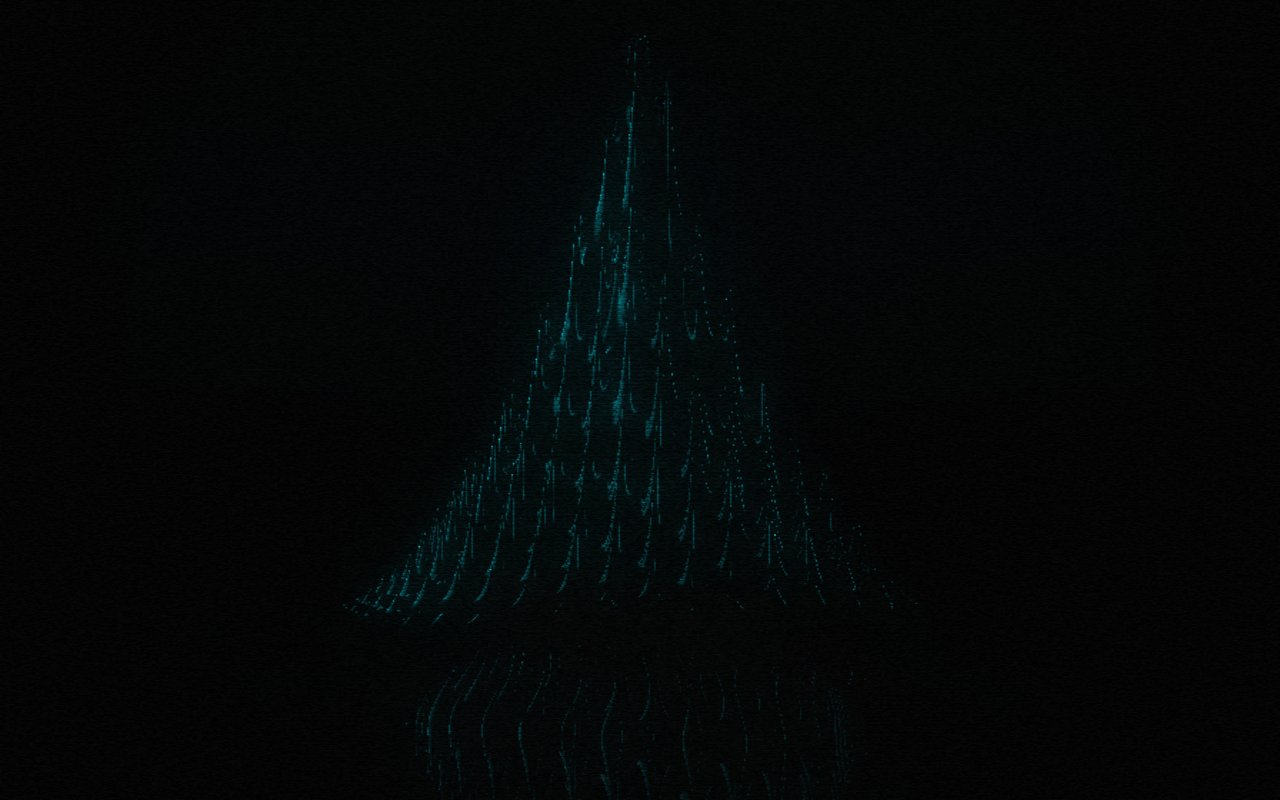
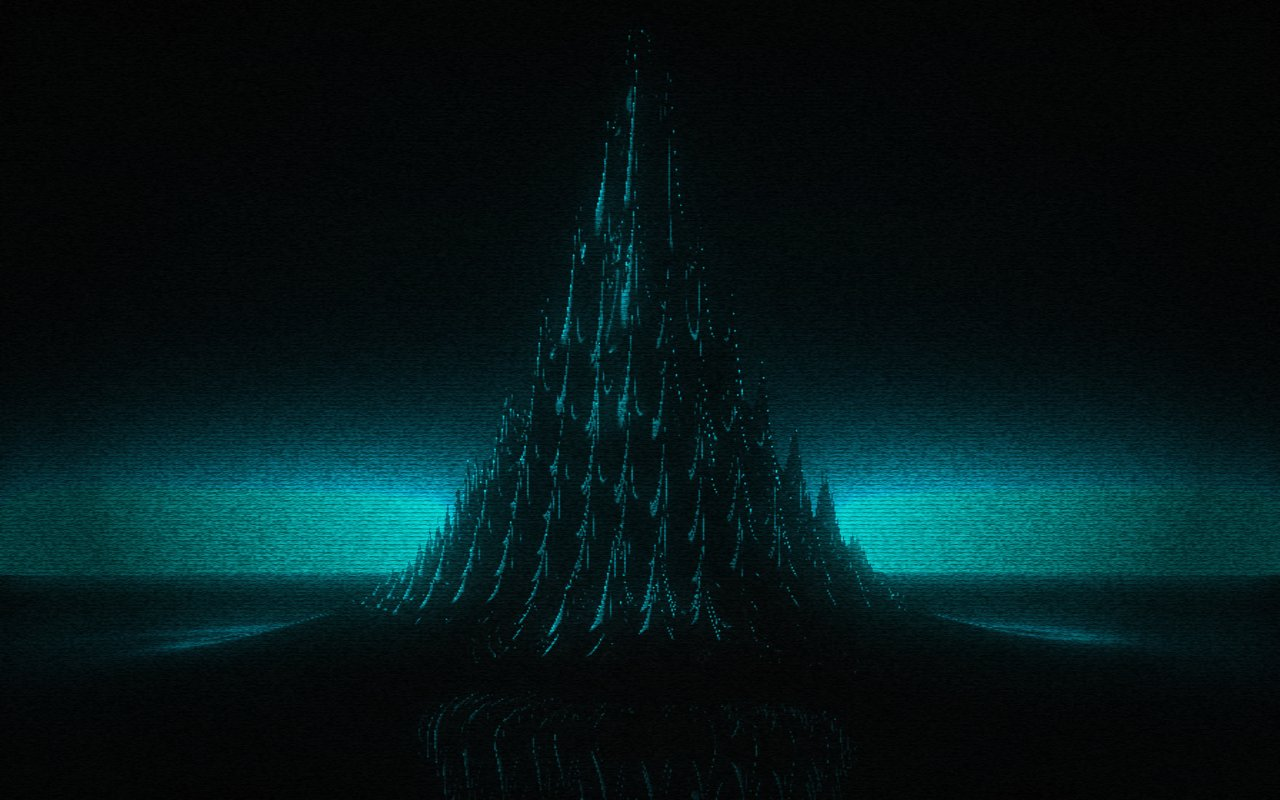
Campo: nueva luz (horizonte que brilla, siluetas, más exposición, destellos con los golpes) y miniatura
Claude-Session: https://claude.ai/code/session_01PHyPu7RkDzX2ru9pxXtJdV

Changed region(s): [[0.0, 0.125, 1.0, 0.8438]]

diff --git a/lab-30-campo/index.html b/lab-30-campo/index.html
@@ -447,7 +447,7 @@ canvas{width:100vw;height:100vh;display:block}
   // pasada 1: el campo magnético (invisible) en una textura
   const FS_FIELD = `#version 300 es
   precision highp float; in vec2 vUv; out vec4 o;
-  uniform vec4 uP[${NP}]; uniform int uN; uniform vec4 uM; uniform vec3 uTw, uTint; uniform float uEnvA; uniform float uDom;
+  uniform vec4 uP[${NP}]; uniform int uN; uniform vec4 uM; uniform vec3 uTw, uTint, uGlowDir, uGlowCol; uniform float uEnvA, uGlow; uniform float uDom;
   void main(){
     vec2 q = (vUv * 2. - 1.) * uDom;
     vec2 d = q - uM.xy; float e0 = uM.z * exp(-dot(d, d) / (uM.w * uM.w)); float f = e0; vec2 gr = -2. * d / (uM.w * uM.w) * e0;
@@ -458,7 +458,7 @@ canvas{width:100vw;height:100vh;display:block}
   precision highp float; in vec2 vUv; out vec4 o;
   uniform sampler2D uF;
   uniform vec2 uRes, uShift; uniform vec3 uCam, uTgt;
-  uniform float uFov, uDom, uCy, uKey, uSeed, uTime; uniform vec3 uTw, uTint; uniform float uEnvA;
+  uniform float uFov, uDom, uCy, uKey, uSeed, uTime; uniform vec3 uTw, uTint, uGlowDir, uGlowCol; uniform float uEnvA, uGlow;
   const float SP = 0.2;
   const vec3 CY = vec3(0.0, 0.9, 1.0);
   vec3 fldT(vec2 q){ vec2 uv = q / (2. * uDom) + 0.5; return (any(lessThan(uv, vec2(0.))) || any(greaterThan(uv, vec2(1.)))) ? vec3(0.) : texture(uF, uv).rgb; }
@@ -493,13 +493,13 @@ canvas{width:100vw;height:100vh;display:block}
   vec3 env(vec3 r){
     vec3 c = vec3(0.);
     float key = smoothstep(0.5, 0.46, abs(r.x)) * smoothstep(0.1, 0.14, r.y) * smoothstep(0.62, 0.58, r.y) * smoothstep(0.2, 0.4, r.z);
-    c += uTint * key * 4.4 * uKey;
+    c += uTint * key * 6.5 * uKey;
     c += vec3(0.07) * smoothstep(-0.05, 0.9, r.y) * uKey;
     float ang = atan(r.x, r.z);
     for (int k = 0; k < 3; k++) {
       float a0 = k == 0 ? 1.95 : k == 1 ? -2.25 : 0.7;
       float da = abs(mod(ang - a0 + 3.14159, 6.28318) - 3.14159);
-      c += uTint * (smoothstep(0.09, 0.035, da) + 0.05 * smoothstep(0.3, 0.0, da)) * smoothstep(-0.08, 0.05, r.y) * smoothstep(0.75, 0.6, r.y) * (k == 2 ? 2.2 : 6.0) * uKey;
+      c += uTint * (smoothstep(0.09, 0.035, da) + 0.05 * smoothstep(0.3, 0.0, da)) * smoothstep(-0.08, 0.05, r.y) * smoothstep(0.75, 0.6, r.y) * (k == 2 ? 3.5 : 9.0) * uKey;
     }
     float top = smoothstep(0.02, 0.0, abs(r.y - 0.97)); c += vec3(0.6) * top * uKey;
     c += CY * smoothstep(0.035, 0.0, abs(r.y - 0.03)) * 5.0 * uCy;
@@ -522,6 +522,14 @@ canvas{width:100vw;height:100vh;display:block}
       t += max(d / (max(-rd.y, 0.) + (0.5 + amp * 32.) * hor + 0.05), 0.0008 + 0.0004 * t);
     }
     return false;
+  }
+  // horizonte que brilla detrás de la escena (en la dirección de la cámara): recorta las púas en silueta
+  vec3 glow(vec3 r){
+    float az = dot(normalize(vec3(r.x, 0., r.z) + 1e-5), uGlowDir);
+    float sect = smoothstep(-0.2, 0.9, az);
+    float y = r.y;
+    float g = exp(-abs(y - 0.015) * 26.) * 1.0 + exp(-max(y, 0.) * 9.) * 0.09 * step(-0.02, y) + exp(-abs(y) * 60.) * 1.4;
+    return uGlowCol * g * sect * uGlow;
   }
   vec3 envR(vec3 r){ float ca = cos(uEnvA), sa = sin(uEnvA); return env(vec3(ca * r.x - sa * r.z, r.y, sa * r.x + ca * r.z)); }
   void main(){
@@ -555,7 +563,7 @@ canvas{width:100vw;height:100vh;display:block}
       float ao = clamp(0.25 + (p.y - base) * 5., 0., 1.);
       ao = mix(ao, 1., smoothstep(0.0, 0.25, r.y));
       float flat_ = smoothstep(0.0, 0.015, p.y - base);
-      vec3 c = envR(r) * ao * mix(0.025, 1., flat_);
+      vec3 c = envR(r) * ao * mix(0.025, 1., flat_) + glow(r);
       // un rebote: el estanque y las púas reflejan a las púas vecinas
       float t2; vec3 q2;
       if (r.y > 0. && march(p + n * 0.004, r, 100, 6., t2)) {
@@ -565,7 +573,7 @@ canvas{width:100vw;height:100vh;display:block}
         vec3 r2 = reflect(r, n2);
         vec2 fb2 = fld2(q2.xz); float b2 = 0.25 * fb2.x + 0.32 * fb2.y;
         float f2 = 0.045 + 0.955 * pow(1. - max(dot(n2, -r), 0.), 5.);
-        c = envR(r2) * f2 * mix(0.025, 1., smoothstep(0.0, 0.015, q2.y - b2)) * smoothstep(8., 3., length(q2.xz));
+        c = (envR(r2) * mix(0.025, 1., smoothstep(0.0, 0.015, q2.y - b2)) + glow(r2)) * f2 * smoothstep(8., 3., length(q2.xz));
       }
       c *= fres;
       c += vec3(0.0025) * max(n.y, 0.) * uKey;
@@ -573,6 +581,7 @@ canvas{width:100vw;height:100vh;display:block}
       c *= smoothstep(8., 3., dist) * exp(-max(t - 3.5, 0.) * 0.22);
       col = c;
     }
+    if (!hit) col = glow(rd);
     // aire de la sala: un velo cian casi invisible tras la ruptura
     col += CY * uCy * 0.012 * smoothstep(0.0, 0.3, rd.y) * (1. - smoothstep(0.3, 0.8, rd.y));
     col += (ign(gl_FragCoord.xy) - 0.5) / 255.;
@@ -648,7 +657,14 @@ canvas{width:100vw;height:100vh;display:block}
       const cy = a >= 0 ? (0.6 + 0.4 * Math.exp(-a * 1.5)) * fade : 0;
       gl.uniform1f(PM.U.uCy, cy); let pump = 0;
       for (const gv of GROOVE) { if (gv.t > t) break; if (gv.v === 'k') pump = Math.max(pump, gv.s * Math.exp(-(t - gv.t) * 9)); }
-      gl.uniform1f(PM.U.uKey, fade * (a >= 0 ? 1.25 + 1.2 * Math.exp(-a * 2.5) + 0.9 * pump : 1));
+      let hp_ = 0;
+      for (const pp of PULSES) { if (pp.t > t) break; if (pp.k <= 1 && t < T.cut) hp_ = Math.max(hp_, (pp.k === 1 ? 0.8 : 0.35) * Math.min(1, pp.s) * Math.exp(-(t - pp.t) * 12)); }
+      gl.uniform1f(PM.U.uKey, fade * (a >= 0 ? 1.25 + 1.2 * Math.exp(-a * 2.5) + 0.9 * pump : 1 + 0.8 * hp_));
+      const fwd = [tg[0] - cam[0], 0, tg[2] - cam[2]]; const fl = Math.hypot(fwd[0], fwd[2]);
+      gl.uniform3f(PM.U.uGlowDir, fwd[0] / fl, 0, fwd[2] / fl);
+      const cutK = t >= T.cut && t < T.rupt ? 0 : 1;
+      if (a >= 0) { gl.uniform3f(PM.U.uGlowCol, 0.0, 0.85, 1.0); gl.uniform1f(PM.U.uGlow, fade * (0.55 + 1.6 * Math.exp(-a * 1.8) + 0.7 * pump)); }
+      else { gl.uniform3f(PM.U.uGlowCol, 1.0, 0.96, 0.9); gl.uniform1f(PM.U.uGlow, cutK * (0.07 + 0.12 * ten + 0.35 * hp_)); }
       const tk = a >= 0 ? 1 - 0.25 * e.inOut(sg(a, 3, 7)) : 0;
       gl.uniform3f(PM.U.uTint, lerp(1.0, 0.0, tk), lerp(0.97, 0.9, tk), lerp(0.92, 1.0, tk));
       gl.uniform3f(PM.U.uTw, F.TW[0], F.TW[1], 0); gl.uniform1f(PM.U.uEnvA, -(az - 0.55) * 0.7 + 0.035 * t); gl.uniform1f(PM.U.uSeed, (frame % 64) * 0.137); gl.uniform1f(PM.U.uTime, t);
